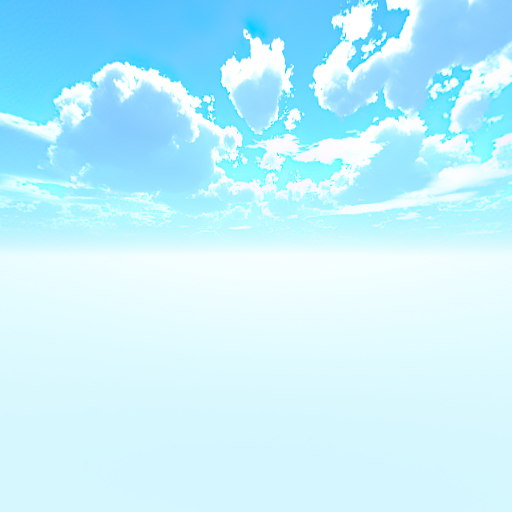
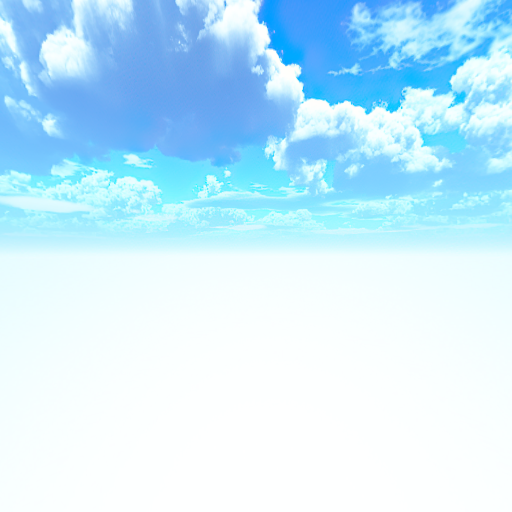
tweak acceleration and fix skybox

diff --git a/src/_player.cpp b/src/_player.cpp
@@ -45,7 +45,7 @@ void _player::drawPlayer()
         chrono::duration<float,milli>diff = nw - accelTmr;
         if (speed < maxSpeed) {
                 accel = diff.count()/100000;
-                accel *= (1 - ((speed) / (maxSpeed)));
+                accel *= (0.05 - ((0.05 * speed) / (maxSpeed)));
                 printf("%f\n",accel);
                 speed += accel;// * (diff.count());// * //accelTmr->getTicks();
         }

diff --git a/src/_scene.cpp b/src/_scene.cpp
@@ -137,7 +137,7 @@ void _Scene::drawScene()
             myCam->des.y += 0.5;
             myCam->rotAngle.x = 180;
             myCam->rotAngle.y = 0;
-            myCam->distance = 4.0 / (1 +  2 * plyr->speed);
+            myCam->distance = 4.0 / (1 +  4 * plyr->speed);
             myCam->rotateXY();
             myCam->setUpCamera();
 
